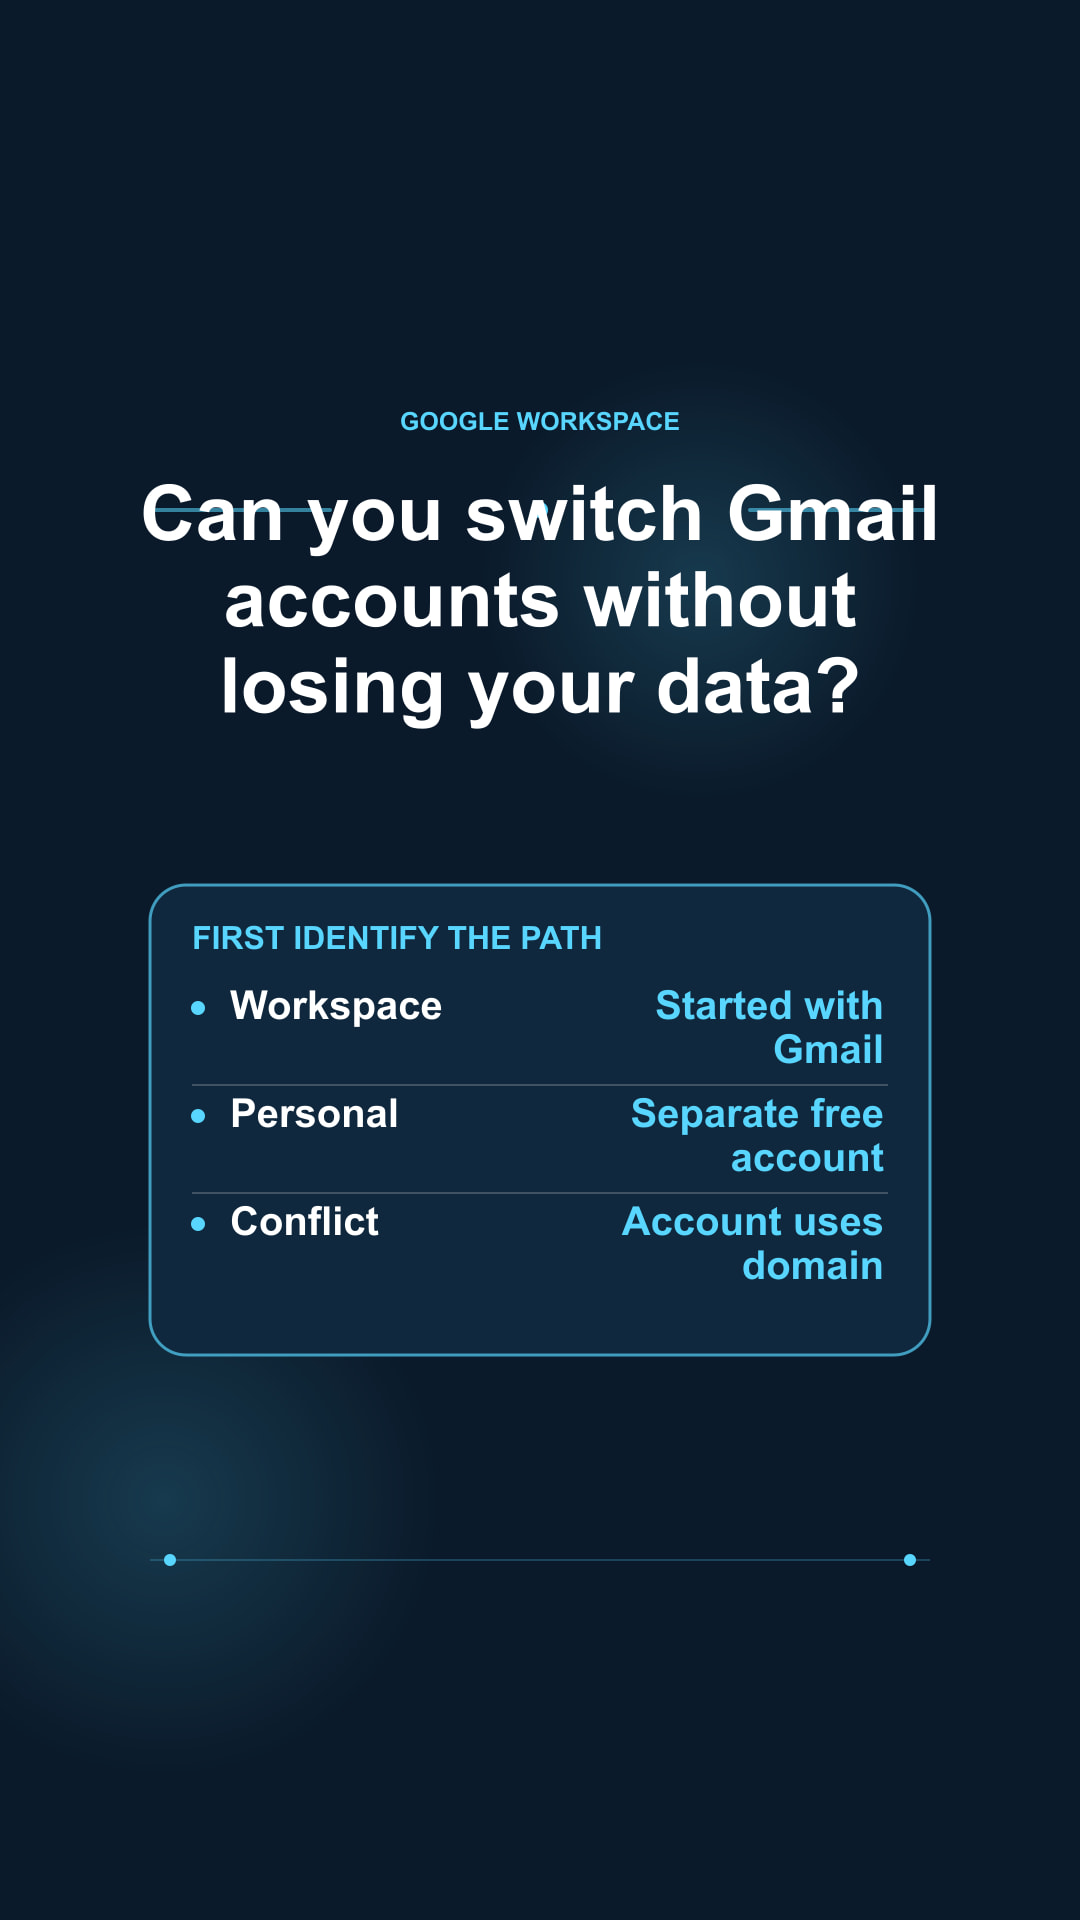
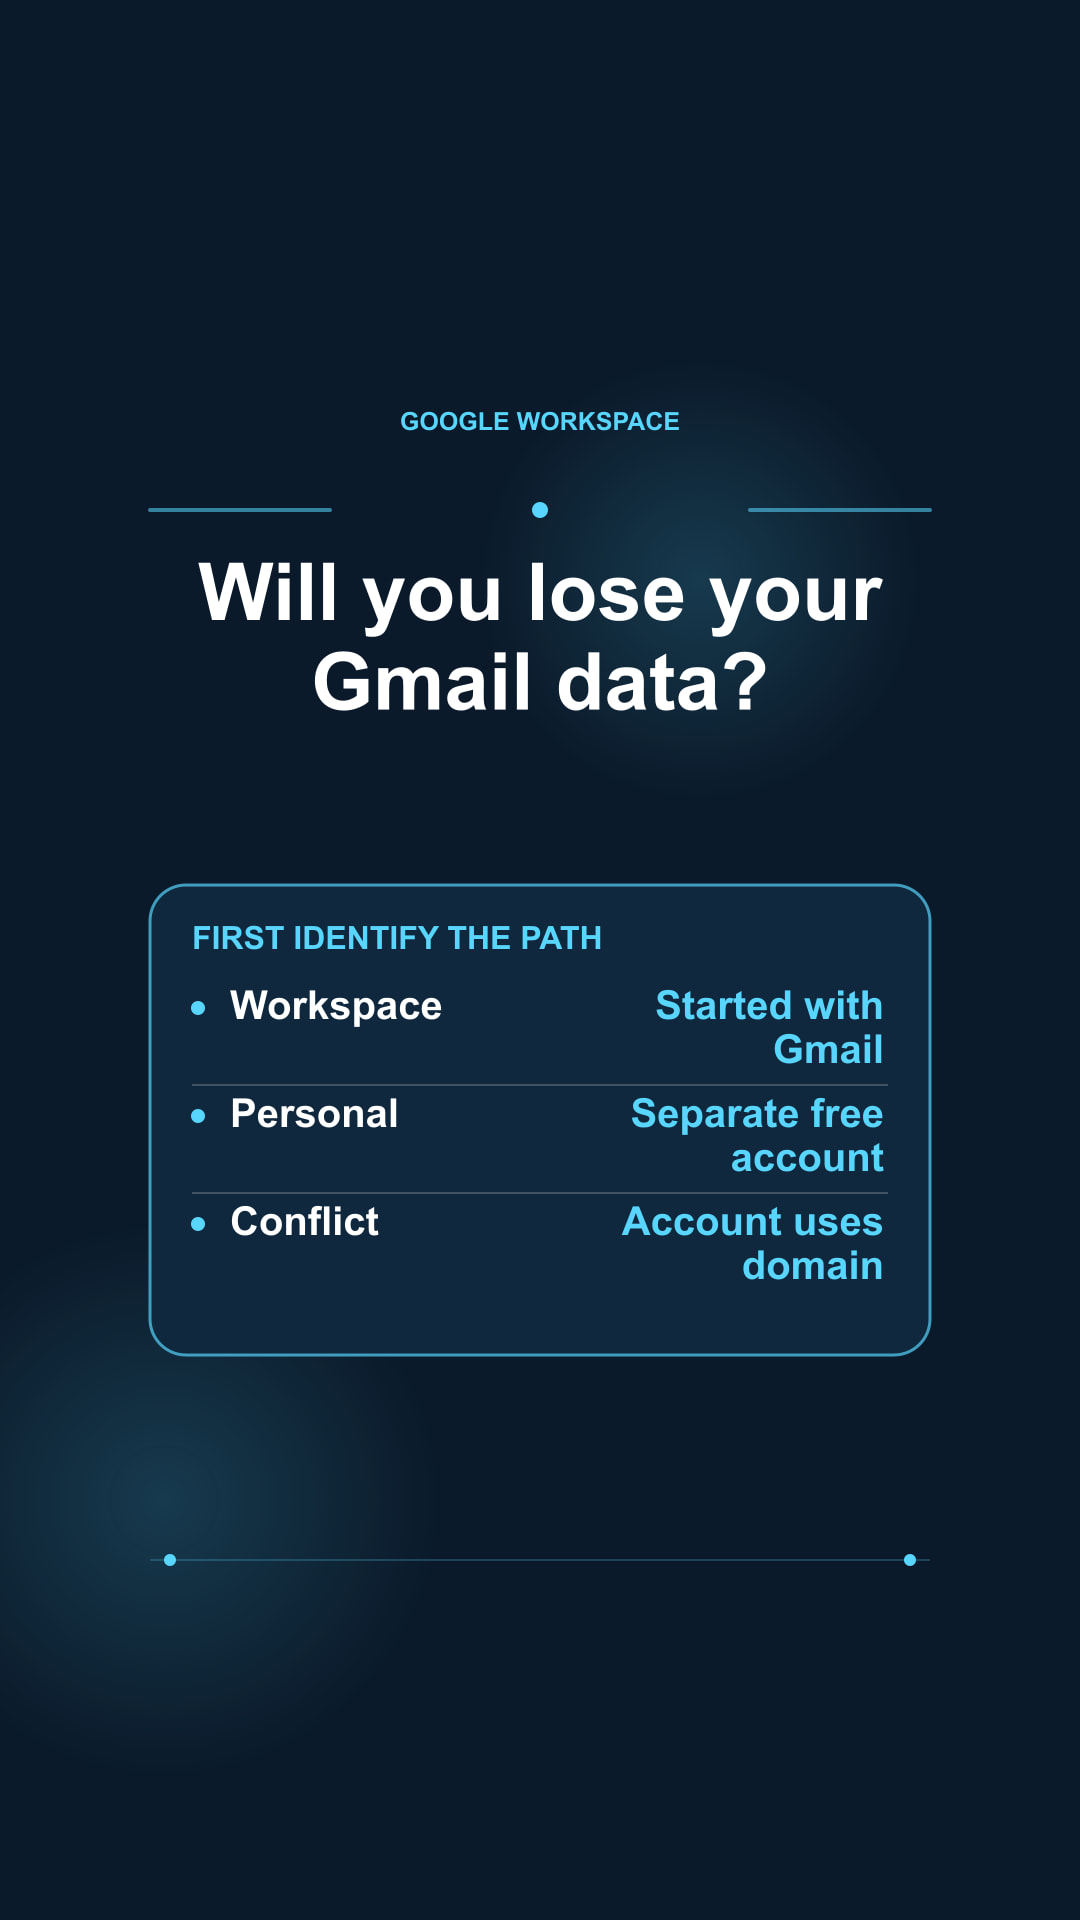
fix: validate reel packages before overnight handoff

Changed region(s): [[0.1222, 0.25, 0.8861, 0.375]]

diff --git a/scripts/run-business-reel-queue.py b/scripts/run-business-reel-queue.py
@@ -336,7 +336,7 @@ def run_queue(slugs: list[str], *, max_topics_per_day: int = 3, target_renders_p
                 checkpoint = json.loads(topic_path.read_text()) if topic_path.exists() else None
             except (OSError, ValueError):
                 checkpoint = None
-            if render_is_current(slug, approval, checkpoint):
+            if checkpoint is not None and checkpoint.get("pacificDate") == date and render_is_current(slug, approval, checkpoint):
                 item = {"slug": slug, "status": "already_current", "renderMeta": f"video/out/{slug}/render-meta.json"}
                 run_state["results"].append(item)
                 successful.add(slug)

diff --git a/docs/BUSINESS-GROWTH-AUTOMATION-SOP.md b/docs/BUSINESS-GROWTH-AUTOMATION-SOP.md
@@ -13,7 +13,7 @@ Use `docs/REEL-PRODUCTION-RUNBOOK.md` for routine execution. The scheduled busin
 3. Apply an attention-first story review to each reel before editorial approval. The spoken hook must be a concise, topic-specific question that names a real viewer problem or desired result; show the same question in readable text from the opening. Deliver its answer early, then use two to four short payoff beats. Every chart, graph, or flowchart must make a source-backed point or clarify a step. Include one relevant CTA with one primary action only. Prefer a short question for comments or a clear save/share prompt when that matches the content. Never stack “like, comment, follow, and share.” Record the exact spoken and visible hook, hook duration and word count, payoff beat map, one CTA/action, hypothesis, and metrics to inspect in `attention-review.json`.
 4. Finish content and deterministic checks before editorial sign-off. Run local blog QA and repair its findings first. Review the article, research, reel script, narration data, attention review, social copy, and actual exported graphics. Prefer clear charts, graphs, checklists, and flow diagrams that explain verified facts or a repeatable process. Use relevant cleared stock or owner imagery when it adds context. Stable Diffusion is optional and disabled by default; enable it only for a specific reviewed visual gap, never as the default source of charts or evidence. Follow `docs/EDITORIAL-HERO-SOP.md` and `docs/REEL-OPENING-SOP.md`: the approved article hero is the reel's opening frame at time zero. Inspect encoded frame zero and frame 15 plus the transition, full size and at phone size (about 360 px wide); reject black, blank, near-blank, unrelated, or late-loading first frames. Conceptual illustrations must be identified as conceptual; invented values must never appear as real measurements.
 5. Record the completed owner review in `artwork-qa.json` and `qa.json`. Add `attentionOptimizationVersion: 1` and hash `attention-review.json` in `qa.json`. For question-hook reels, set `hook.questionHookRequired: true` and record identical spoken and visible question text. The renderer gate validates that the review maps to the actual hook and ending card, the spoken hook is at most 12 words and 4 seconds, the CTA is at most 10 words with exactly one primary action, and the review names a retention or action metric. `qa.json` must have `pass: true`, no blockers, score at least 85, `mode: "codex-editorial"`, and SHA-256 hashes for the exact current approval artifacts required by `video/scripts/approved-sources.mjs`. Verify with `node video/scripts/approved-sources.mjs <slug>`. **Order matters:** `qa-local.mjs` writes `mode: "deterministic-local"`; running it after editorial sign-off erases the renderer's approval record. If deterministic QA must run again, repeat the owner review and refresh every hash before rendering or deployment. Deployment's QA call writes to `/tmp` and preserves the source approval record.
-6. The 20:30 Luna owner prepares the queue for the next Pacific production date. Only after every slug is fully packaged, editorially approved, hash-current, and the queue config is final, run `python3 scripts/write-business-reel-handoff.py --queue-config=ops/business-reel-queue.json --date=<next-pacific-date>`. The helper verifies the exact queue and `approved-sources.mjs` gates, then writes `.workflow-state/business-growth-ai-365/production/handoffs/<date>.json` with the date, ordered slugs, limits, config hash, and approval fingerprints. If preparation is incomplete or any check fails, write a blocked manifest with `--blocked --reason="..." --date=<next-pacific-date>`; never create a ready manifest or leave yesterday's ready manifest as evidence for today's run. The 02:00 local LaunchAgent and later 03:15 monitor use the same `scripts/run-business-reel-queue.py --queue-config=ops/business-reel-queue.json`. Before acquiring a render lease or starting any child, the runner requires a ready manifest for today's Pacific date and verifies that the current config hash, slug order, limits, and approval fingerprints match. Missing, stale, blocked, malformed, or mismatched handoff exits as `blocked_handoff`; the runner never falls back to the old queue. A busy invocation adopts status instead of starting a second loop. Target two successful current encodes within three distinct approved topic attempts per day, continuing after a topic-specific failure. Record Chatterbox success after each complete successful render so the circuit resets only on verified success; selecting a new topic never resets failures. The runner waits for coin production within the 00:00–06:00 Pacific window, reuses exact finished artifacts, and stops heavy work on two consecutive TTS failures. Do not remove/rename global locks or run another supervisor. Use the authorized network/process execution path once where the sandbox denies the required existing command. No source edits after a topic begins rendering. Review and delivery below remain required after encode.
+6. The 20:30 Luna owner prepares the queue for the next Pacific production date. Only after every slug is fully packaged, editorially approved, hash-current, and the queue config is final, run `python3 scripts/write-business-reel-handoff.py --queue-config=ops/business-reel-queue.json --date=<next-pacific-date>`. The helper verifies the exact queue and `approved-sources.mjs` gates, then writes `.workflow-state/business-growth-ai-365/production/handoffs/<date>.json` with the date, ordered slugs, limits, config hash, and approval fingerprints. The approval gate also validates enrichment structure, including the 2–4 row graphic limit, before a ready handoff can be written. If preparation is incomplete or any check fails, write a blocked manifest with `--blocked --reason="..." --date=<next-pacific-date>`; never create a ready manifest or leave yesterday's ready manifest as evidence for today's run. The 02:00 local LaunchAgent and later 03:15 monitor use the same `scripts/run-business-reel-queue.py --queue-config=ops/business-reel-queue.json`. Before acquiring a render lease or starting any child, the runner requires a ready manifest for today's Pacific date and verifies that the current config hash, slug order, limits, and approval fingerprints match. Missing, stale, blocked, malformed, or mismatched handoff exits as `blocked_handoff`; the runner never falls back to the old queue. A busy invocation adopts status instead of starting a second loop. Target two successful current encodes within three distinct approved topic attempts per day, continuing after a topic-specific failure. Only an exact render checkpoint from today's Pacific production date counts toward today's target; prior-day MP4s may provide cached audio or media, but do not count as one of today's two new reels. Record Chatterbox success after each complete successful render so the circuit resets only on verified success; selecting a new topic never resets failures. The runner waits for coin production within the 00:00–06:00 Pacific window and stops heavy work on two consecutive TTS failures. Do not remove/rename global locks or run another supervisor. Use the authorized network/process execution path once where the sandbox denies the required existing command. No source edits after a topic begins rendering. Review and delivery below remain required after encode.
 7. A Buffer outage blocks social scheduling and live reconciliation only. It does not block research, writing, local QA, editorial review, or media preparation. Complete each blog/reel pair and embed the playable reel only after the final hosted MP4 is verified. Deploy through `scripts/deploy-approved-blog.mjs` against the reviewed baseline, then verify the canonical page returns HTTP 200. If the reel is not ready, keep that pair pending rather than publishing a page that promises an unavailable companion.
 
 8. Before scheduling, make one read-only live capacity/history check with:

diff --git a/docs/REEL-PRODUCTION-RUNBOOK.md b/docs/REEL-PRODUCTION-RUNBOOK.md
@@ -31,7 +31,7 @@ Every new render requires `public/blog/<slug>/enrichment-plan.json`. Minimum: on
 
 Indices are zero based. Graphic kinds: `flow`, `table`, `bar`; use 2–4 short rows. Bars also need numeric `value` per row, `unit` and `period`. Use one graphic per scene; compose its reserved middle panel with the source media rather than covering important evidence. Review source labels and takeaway with the narration.
 
-Run local blog QA **before** editorial sign-off; hash the current enrichment plan and all source artifacts in `qa.json`. `node video/scripts/approved-sources.mjs <slug>` verifies approval. Renderer enrichment validation occurs before expensive synthesis. The runtime stages approved sounds, rejects silent excerpts, caps their measured gain, animates the graphic and uses semantic slide/wipe/fade transitions in both routes. Do not force all presentation transitions to fade.
+Run local blog QA **before** editorial sign-off; hash the current enrichment plan and all source artifacts in `qa.json`. `node video/scripts/approved-sources.mjs <slug>` verifies approval and validates enrichment structure, including the 2–4 row graphic limit. Before full narration synthesis, the renderer measures the approved opening hook; if it exceeds 3.5 seconds, revise and reapprove the spoken and visible hook before generating the remaining segments. A hook length rejection is an editorial correction, not a Chatterbox runtime failure. The runtime stages approved sounds, rejects silent excerpts, caps their measured gain, animates the graphic and uses semantic slide/wipe/fade transitions in both routes. Do not force all presentation transitions to fade.
 
 ## Render and release
 

diff --git a/public/blog/move-personal-gmail-to-google-workspace-business-email/reel-script.md b/public/blog/move-personal-gmail-to-google-workspace-business-email/reel-script.md
@@ -5,9 +5,9 @@ content-kind: educate
 
 ---
 ## HOOK
-**Visual:** The answer depends on the account you already have.
+**Visual:** Will you lose your Gmail data?
 **Duration:** 4s
-Narration: Can you switch Gmail accounts without losing your data?
+Narration: Will you lose your Gmail data?
 
 ---
 ## OVERLAY: Identify your account path

diff --git a/public/blog/move-personal-gmail-to-google-workspace-business-email/reel-data.md b/public/blog/move-personal-gmail-to-google-workspace-business-email/reel-data.md
@@ -1,4 +1,4 @@
-hook: Can you switch Gmail accounts without losing your data?
+hook: Will you lose your Gmail data?
 # Moving from Personal Gmail to Google Workspace: What Happens to Your Data?
 topic: Google Workspace
 format: business-growth-v1
